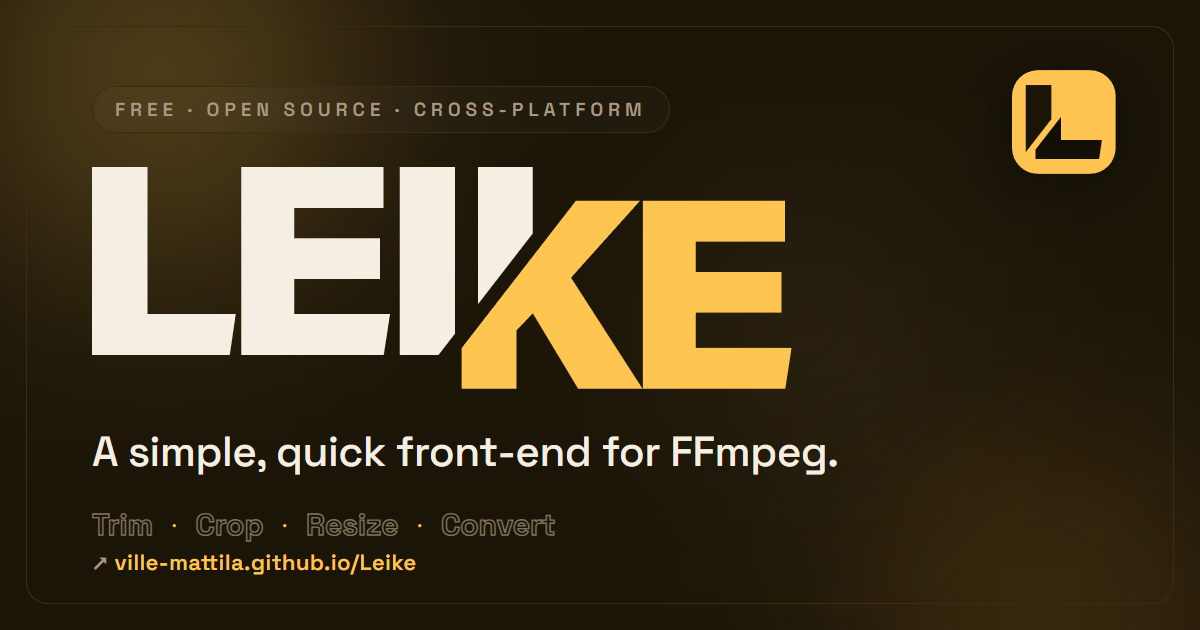
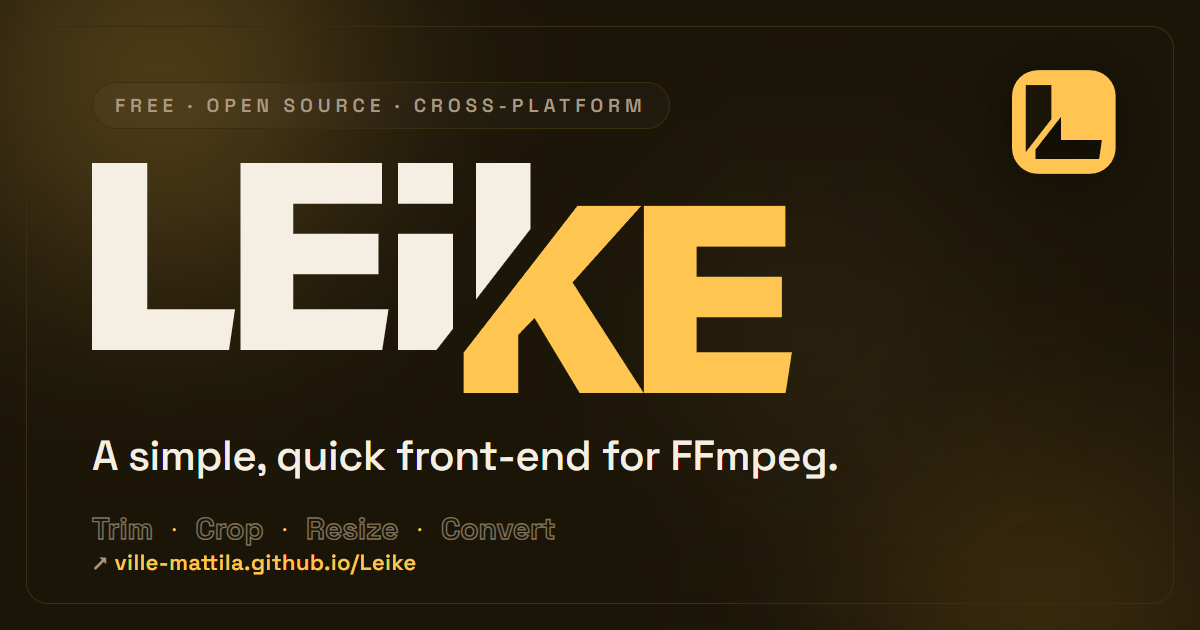
tweak(site): sync hero + OG wordmark to updated leike.svg (new dims/gap)

diff --git a/index.html b/index.html
@@ -82,15 +82,25 @@
 
         <h1 class="wordmark" data-hero="wordmark" aria-label="Leike">
           <span class="wm-part wm-left">
-            <svg viewBox="0 0 926 294" xmlns="http://www.w3.org/2000/svg" aria-hidden="true">
-              <g transform="matrix(1.045795,0,0,1.045795,-128.496574,-367.372885)">
-                <path class="wm-cream" d="M561.143,589.178L511.991,589.178L511.991,351.286L582.081,351.286L582.081,562.184L561.143,589.178ZM611.084,524.794L611.084,351.286L680.483,351.286L680.483,435.323L611.084,524.794ZM122.87,589.178L122.87,351.286L192.96,351.286L192.96,537.387L304.828,537.387L297.232,589.178L122.87,589.178ZM487.131,441.402L487.131,492.847L378.716,492.847L378.716,537.387L499.906,537.387L491.965,589.178L311.733,589.178L311.733,351.286L491.62,351.286L491.62,403.076L378.716,403.076L378.716,441.402L487.131,441.402Z"/>
+            <svg viewBox="0 0 931 306" xmlns="http://www.w3.org/2000/svg" aria-hidden="true">
+              <g transform="matrix(1,0,0,1,-371.875979,0)">
+                <g transform="matrix(1.005858,0,0,1.042885,371.875979,0)">
+                  <g transform="matrix(1.039704,0,0,1.002791,-127.748184,-352.266057)">
+                    <path class="wm-cream" d="M511.991,403.076L511.991,351.286L582.081,351.286L582.081,403.076L511.991,403.076ZM582.081,441.402L582.081,562.184L561.143,589.178L511.991,589.178L511.991,441.402L582.081,441.402ZM611.084,524.794L611.084,351.286L680.483,351.286L680.483,435.323L611.084,524.794ZM122.87,589.178L122.87,351.286L192.96,351.286L192.96,537.387L304.828,537.387L297.232,589.178L122.87,589.178ZM487.131,441.402L487.131,492.847L378.716,492.847L378.716,537.387L499.906,537.387L491.965,589.178L311.733,589.178L311.733,351.286L491.62,351.286L491.62,403.076L378.716,403.076L378.716,441.402L487.131,441.402Z"/>
+                  </g>
+                </g>
               </g>
             </svg>
           </span>
           <span class="wm-part wm-right">
-            <svg viewBox="0 0 926 294" xmlns="http://www.w3.org/2000/svg" aria-hidden="true">
-              <path class="wm-gold" d="M640.204,44.59L725.055,44.59L633.701,146.415L728.305,293.376L643.089,293.376L583.15,193.717L561.485,216.104L561.485,293.376L488.907,293.376L488.907,239.644L640.204,44.59ZM912.097,138.832L912.097,192.634L798.716,192.634L798.716,239.213L925.457,239.213L917.152,293.376L728.666,293.376L728.666,44.59L916.791,44.59L916.791,98.752L798.716,98.752L798.716,138.832L912.097,138.832Z"/>
+            <svg viewBox="0 0 931 306" xmlns="http://www.w3.org/2000/svg" aria-hidden="true">
+              <g transform="matrix(1,0,0,1,-371.875979,0)">
+                <g transform="matrix(1.005858,0,0,1.042885,371.875979,0)">
+                  <g transform="matrix(0.994176,0,0,0.958879,5.390052,11.958382)">
+                    <path class="wm-gold" d="M640.204,44.59L725.055,44.59L633.701,146.415L728.305,293.376L643.089,293.376L583.15,193.717L561.485,216.104L561.485,293.376L488.907,293.376L488.907,239.644L640.204,44.59ZM912.097,138.832L912.097,192.634L798.716,192.634L798.716,239.213L925.457,239.213L917.152,293.376L728.666,293.376L728.666,44.59L916.791,44.59L916.791,98.752L798.716,98.752L798.716,138.832L912.097,138.832Z"/>
+                  </g>
+                </g>
+              </g>
             </svg>
           </span>
         </h1>

diff --git a/og.html b/og.html
@@ -72,10 +72,16 @@
     <div class="pad">
       <div class="pill">Free · Open source · Cross-platform</div>
       <div class="wm">
-        <svg viewBox="0 0 926 294" xmlns="http://www.w3.org/2000/svg" aria-label="Leike">
-          <path class="wm-gold" d="M640.204,44.59L725.055,44.59L633.701,146.415L728.305,293.376L643.089,293.376L583.15,193.717L561.485,216.104L561.485,293.376L488.907,293.376L488.907,239.644L640.204,44.59ZM912.097,138.832L912.097,192.634L798.716,192.634L798.716,239.213L925.457,239.213L917.152,293.376L728.666,293.376L728.666,44.59L916.791,44.59L916.791,98.752L798.716,98.752L798.716,138.832L912.097,138.832Z"/>
-          <g transform="matrix(1.045795,0,0,1.045795,-128.496574,-367.372885)">
-            <path class="wm-cream" d="M561.143,589.178L511.991,589.178L511.991,351.286L582.081,351.286L582.081,562.184L561.143,589.178ZM611.084,524.794L611.084,351.286L680.483,351.286L680.483,435.323L611.084,524.794ZM122.87,589.178L122.87,351.286L192.96,351.286L192.96,537.387L304.828,537.387L297.232,589.178L122.87,589.178ZM487.131,441.402L487.131,492.847L378.716,492.847L378.716,537.387L499.906,537.387L491.965,589.178L311.733,589.178L311.733,351.286L491.62,351.286L491.62,403.076L378.716,403.076L378.716,441.402L487.131,441.402Z"/>
+        <svg viewBox="0 0 931 306" xmlns="http://www.w3.org/2000/svg" aria-label="Leike">
+          <g transform="matrix(1,0,0,1,-371.875979,0)">
+            <g transform="matrix(1.005858,0,0,1.042885,371.875979,0)">
+              <g transform="matrix(0.994176,0,0,0.958879,5.390052,11.958382)">
+                <path class="wm-gold" d="M640.204,44.59L725.055,44.59L633.701,146.415L728.305,293.376L643.089,293.376L583.15,193.717L561.485,216.104L561.485,293.376L488.907,293.376L488.907,239.644L640.204,44.59ZM912.097,138.832L912.097,192.634L798.716,192.634L798.716,239.213L925.457,239.213L917.152,293.376L728.666,293.376L728.666,44.59L916.791,44.59L916.791,98.752L798.716,98.752L798.716,138.832L912.097,138.832Z"/>
+              </g>
+              <g transform="matrix(1.039704,0,0,1.002791,-127.748184,-352.266057)">
+                <path class="wm-cream" d="M511.991,403.076L511.991,351.286L582.081,351.286L582.081,403.076L511.991,403.076ZM582.081,441.402L582.081,562.184L561.143,589.178L511.991,589.178L511.991,441.402L582.081,441.402ZM611.084,524.794L611.084,351.286L680.483,351.286L680.483,435.323L611.084,524.794ZM122.87,589.178L122.87,351.286L192.96,351.286L192.96,537.387L304.828,537.387L297.232,589.178L122.87,589.178ZM487.131,441.402L487.131,492.847L378.716,492.847L378.716,537.387L499.906,537.387L491.965,589.178L311.733,589.178L311.733,351.286L491.62,351.286L491.62,403.076L378.716,403.076L378.716,441.402L487.131,441.402Z"/>
+              </g>
+            </g>
           </g>
         </svg>
       </div>

diff --git a/styles.css b/styles.css
@@ -156,7 +156,7 @@ section { position: relative; }
   border: 1px solid var(--border); border-radius: 999px; margin-bottom: 34px;
   background: rgba(255,255,255,0.02);
 }
-.wordmark { position: relative; width: min(620px, 82vw); aspect-ratio: 926 / 294;
+.wordmark { position: relative; width: min(620px, 82vw); aspect-ratio: 931 / 306;
   margin-bottom: 30px; }
 .wm-part { position: absolute; inset: 0; will-change: transform; }
 .wm-part svg { width: 100%; height: 100%; display: block; overflow: visible; }